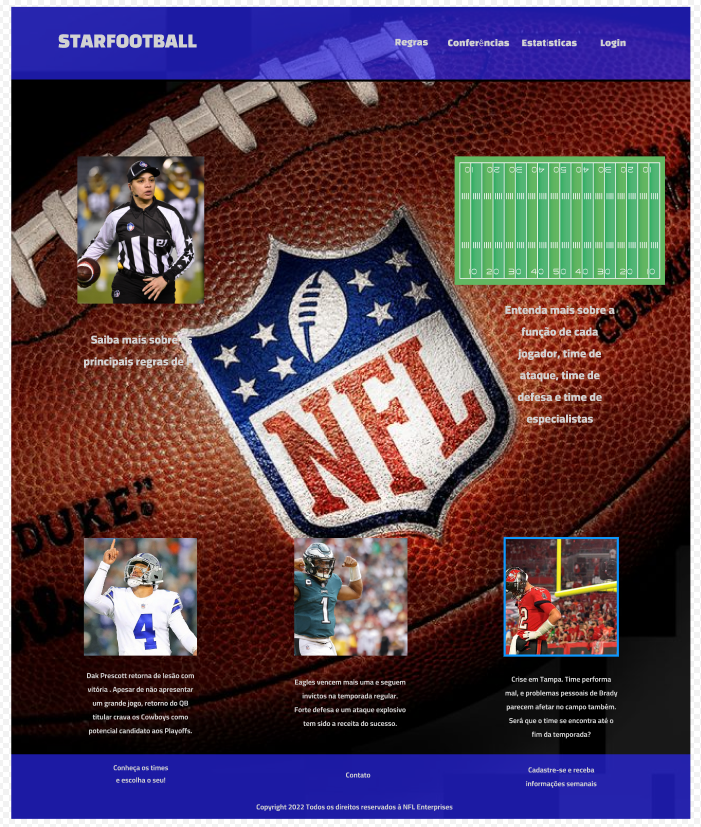
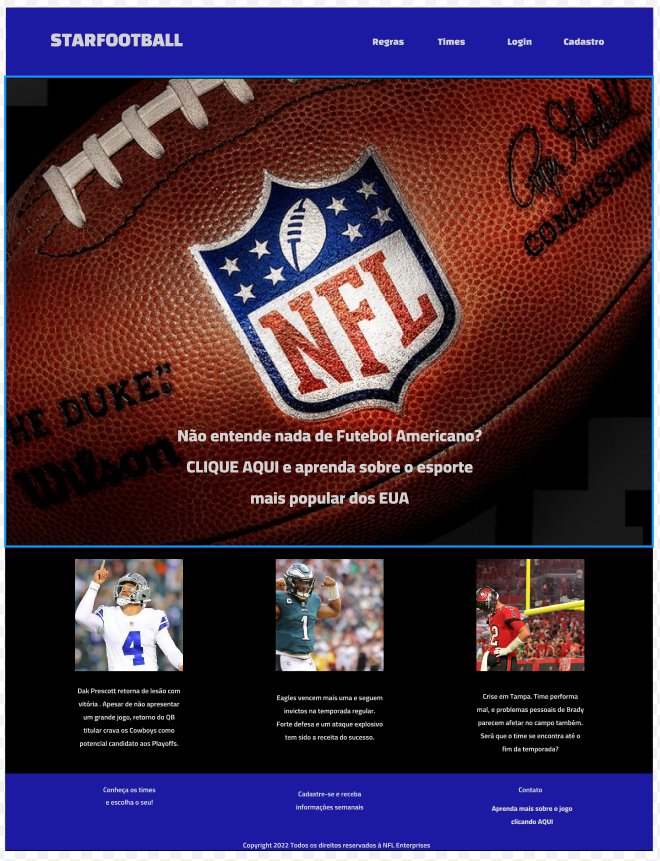
Alterações no protótipo e desenvolvimento da Home

diff --git a/site-fa.html b/site-fa.html
@@ -1,5 +1,6 @@
 <!DOCTYPE html>
 <html lang="en">
+
 <head>
     <meta charset="UTF-8">
     <meta http-equiv="X-UA-Compatible" content="IE=edge">
@@ -7,18 +8,19 @@
     <link rel="stylesheet" href="site-fa.css">
     <title>Home</title>
 </head>
+
 <body>
-    
+
     <header class="head">
 
         <div class="container">
-            <h3><a href="site-fa.html">StarFootball</a></h3>
+            <h3><a href="site-fa.html" class="a_head">StarFootball</a></h3>
             <div class="navbar">
                 <ul>
-                    <li><a href="">Regras</a></li>
-                    <li><a href="">Times</a></li>
-                    <li><a href="">História</a></li>
-                    <li><a href="">Cadastro</a></li>
+                    <li><a href="" class="a_head">Regras</a></li>
+                    <li><a href="" class="a_head">Times</a></li>
+                    <li><a href="" class="a_head">Login</a></li>
+                    <li><a href="" class="a_head">Cadastro</a></li>
                 </ul>
             </div>
         </div>
@@ -26,19 +28,25 @@
     </header>
 
     <div class="banner">
-        Aqui estarão resumos sobre o site e links para outras páginas
+        <p>Não entende nada de futebol americano?</p> <br>
+        <span><a href="" class="click">CLIQUE AQUI</a> e aprenda sobre um dos esportes mais populares do mundo! </span>
     </div>
 
     <div class="jogos">
         <div class="container">
+            <div class="titulo">Melhores jogos da semana 9
+            </div>
             <div class="caixas">
+                <div class="box">
+                    <p>O Sunday Night Football vem com tudo para ser o melhor jogo dessa rodada! Chiefs e Titans devem
+                        fazer um bom jogo, visto que os dois times buscam ampliar sua vantagem na sua respectiva
+                        conferência. Ambos os times estão 5-2, porém os Titans tem problemas ofensivos, e os Chiefs 
+                        buscam se isolar na AFC West.</p>
+                </div>
                 <div class="box">
                     Melhores jogos da próxima semana
                 </div>
-                <div class="box2">
-                    Melhores jogos da próxima semana
-                </div>
-                <div class="box3">
+                <div class="box">
                     Melhores jogos da próxima semana
                 </div>
             </div>
@@ -64,11 +72,12 @@
 
     <footer class="footer">
         <div class="foot">
-            <div class="box">
-                Futebol americano é legal!
+            <div class="msg">
+                blablabla
             </div>
         </div>
     </footer>
 
 </body>
+
 </html>

diff --git a/site-fa.css b/site-fa.css
@@ -6,7 +6,8 @@ header {
     display: flex;
     justify-content: center;
     align-items: center;
-    background-color: cornflowerblue;
+    background-color: rgba(45, 40, 251, 0.65);
+    position: absolute;
 }
 
 .head {
@@ -14,7 +15,6 @@ header {
     padding: 2% 0.7%;
     display: flex;
     justify-content: space-between;
-    background-color: cornflowerblue;
 }
 
 .container {
@@ -46,26 +46,63 @@ li {
     padding: 0.7%;
 }
 
-a {
-    background-color: gold;
-    color: indigo;
+.a_head {
+    color: #d2d2d2;
     width: 100%;
     height: 1%;
-    border-radius: 4px;
     margin-top: 2%;
     cursor: pointer;
-    transition: 0.3s ease-in-out;
-}
-
-a:hover{
-    background-color: crimson;
-    color: blue;
 }
 
 .banner {
     padding: 20% 0;
-    font-size: 40px;
-    color: #FFFFFF;
+    font-size: 25px;
+    color: #d2d2d2;
     background-image: url(background-image.jpg);
+    background-repeat: no-repeat;
     background-size: cover;
+    height: 80vh;
+}
+
+.banner p{
+    display: flex;
+    text-align: center;
+    margin-top: 48%;
+    padding: 0 35%;
+}
+
+.banner span{
+    display: flex;
+    text-align: center;
+    padding: 0 29%;
+}
+
+.click {
+    color: #d2d2d2;
+    padding-right: 7px;
+}
+
+.jogos {
+    background-color: black;
+    height: 30vh;
+    color: #d2d2d2;
+    display: flex;
+    text-align: center;
+}
+
+.jogos .container{
+    width: 80%;
+}
+
+.titulo {
+    display: flex;
+    position: absolute;
+    text-align: center;
+    margin-bottom: 10%;
+    margin-left: 25.5%;
+    font-size: 30px;
+}
+
+.caixas {
+    margin-top: 2%;
 }
